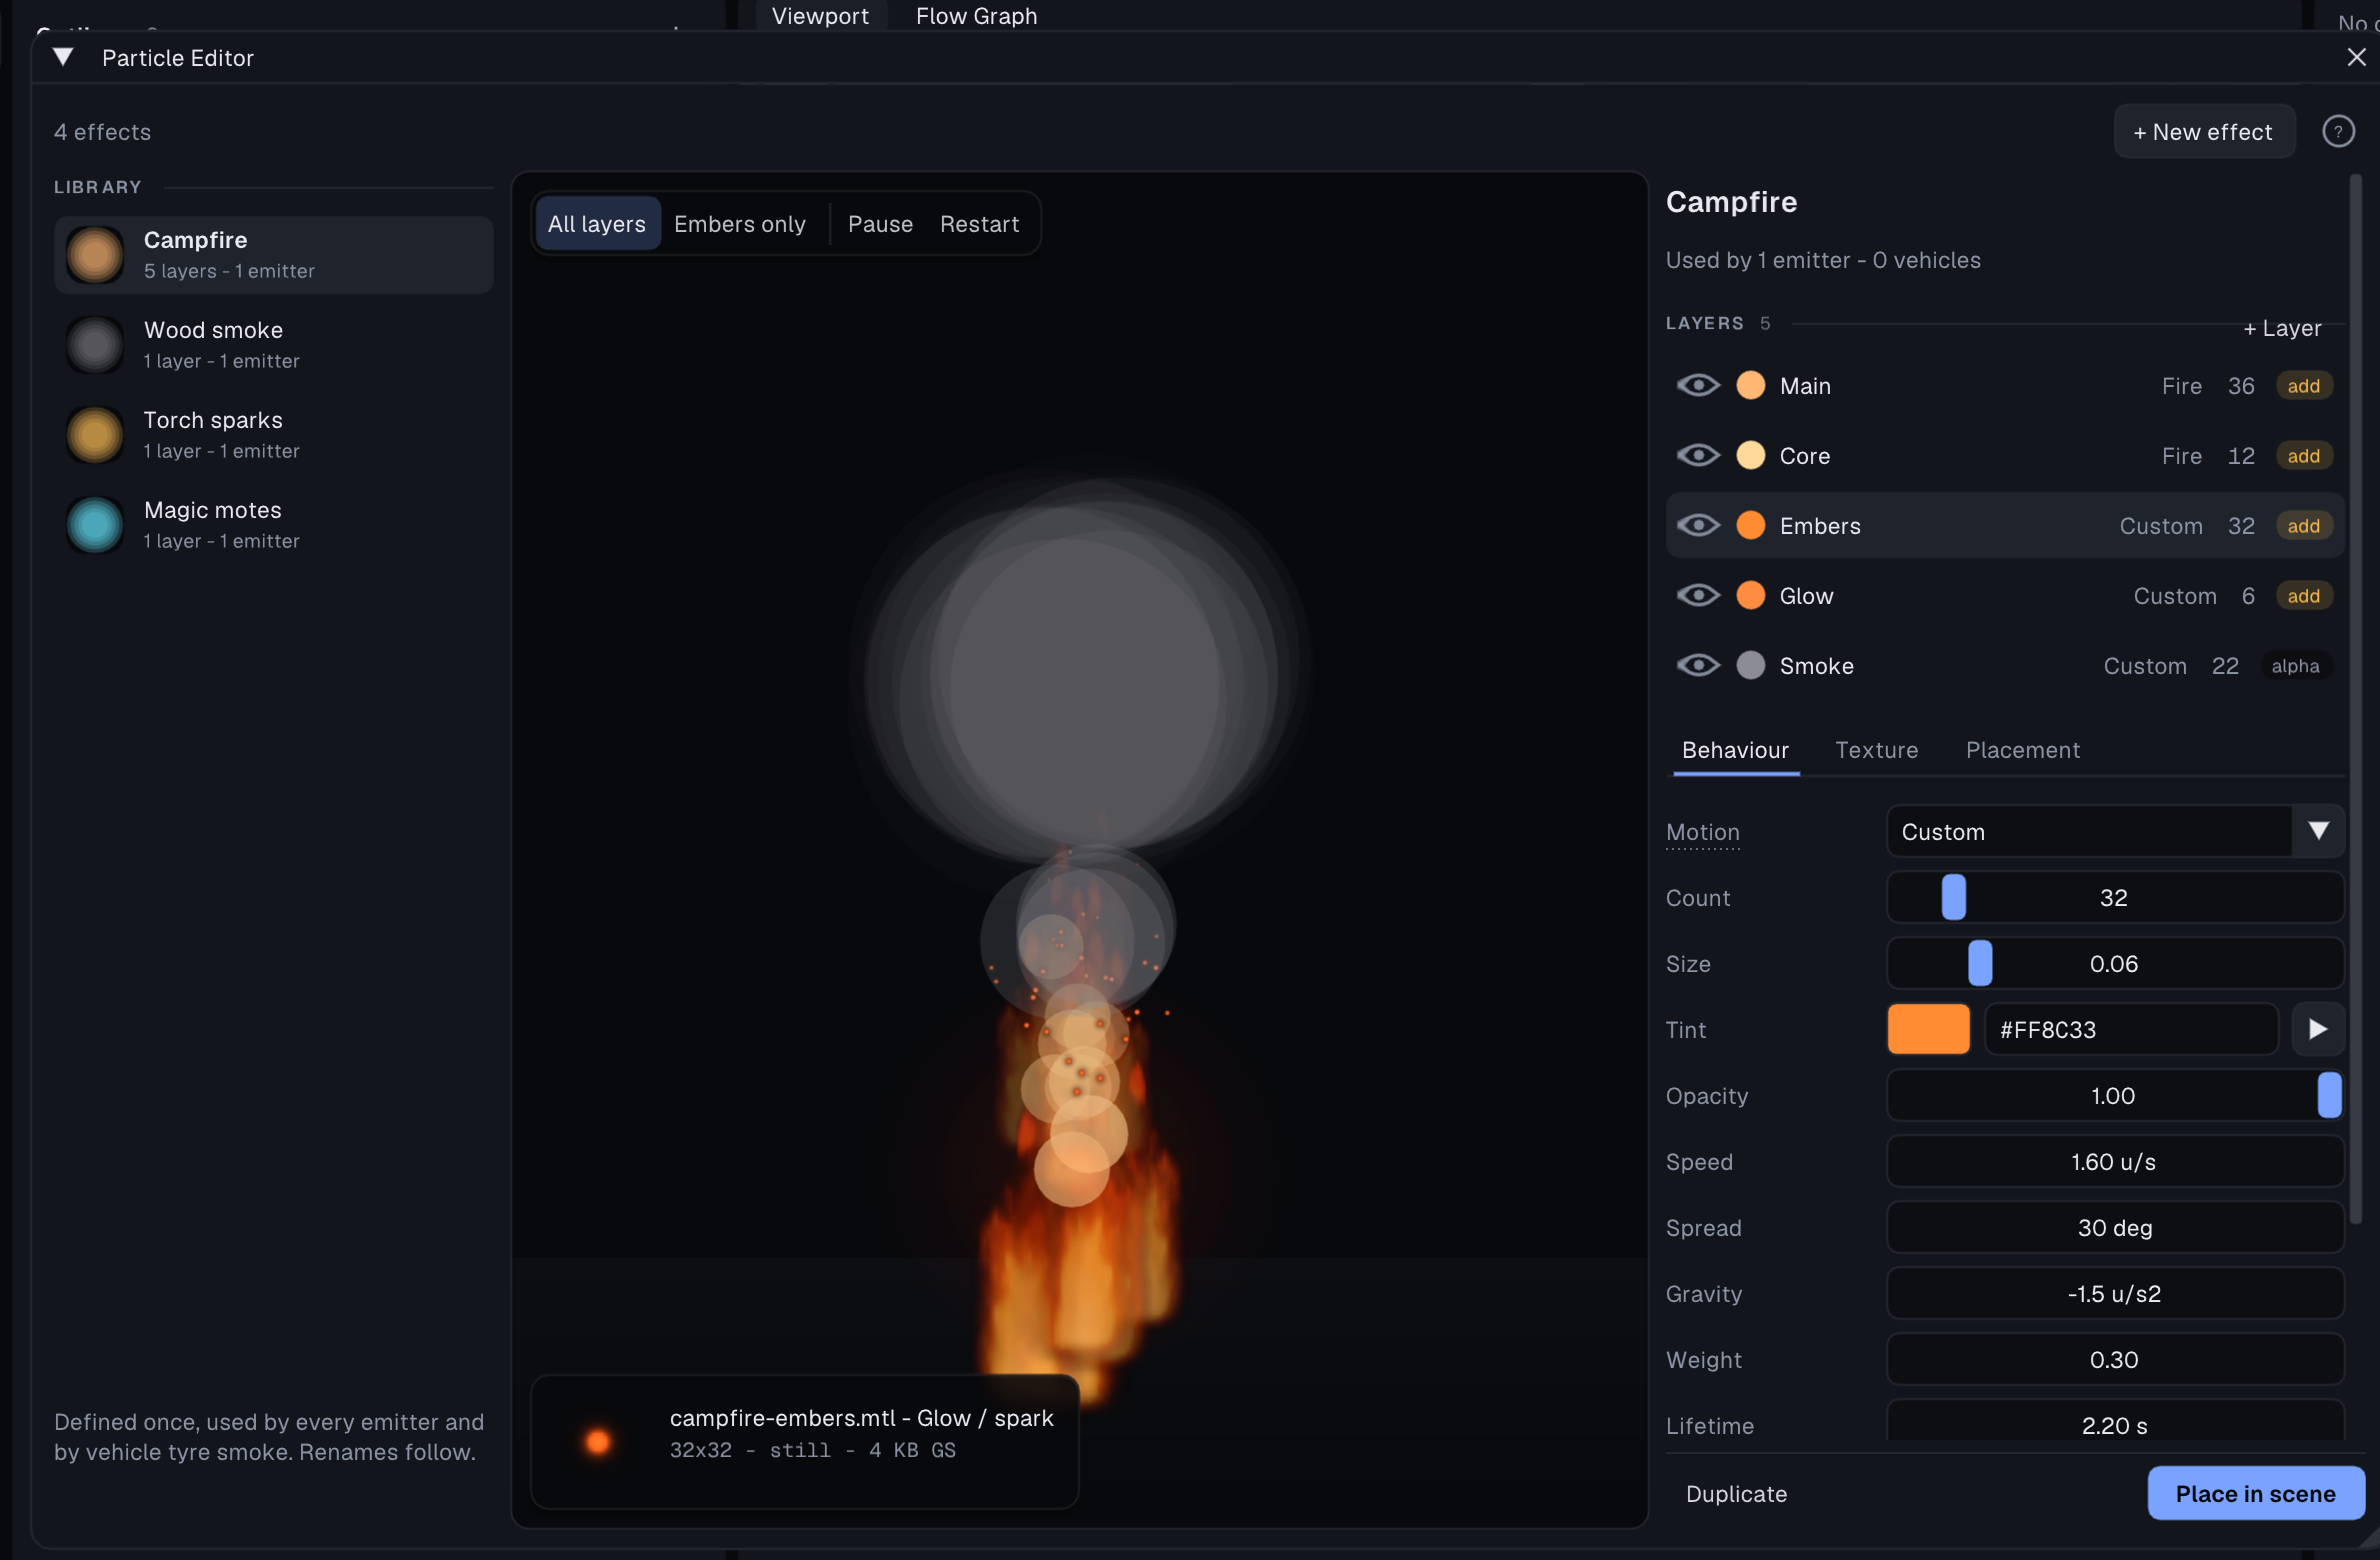
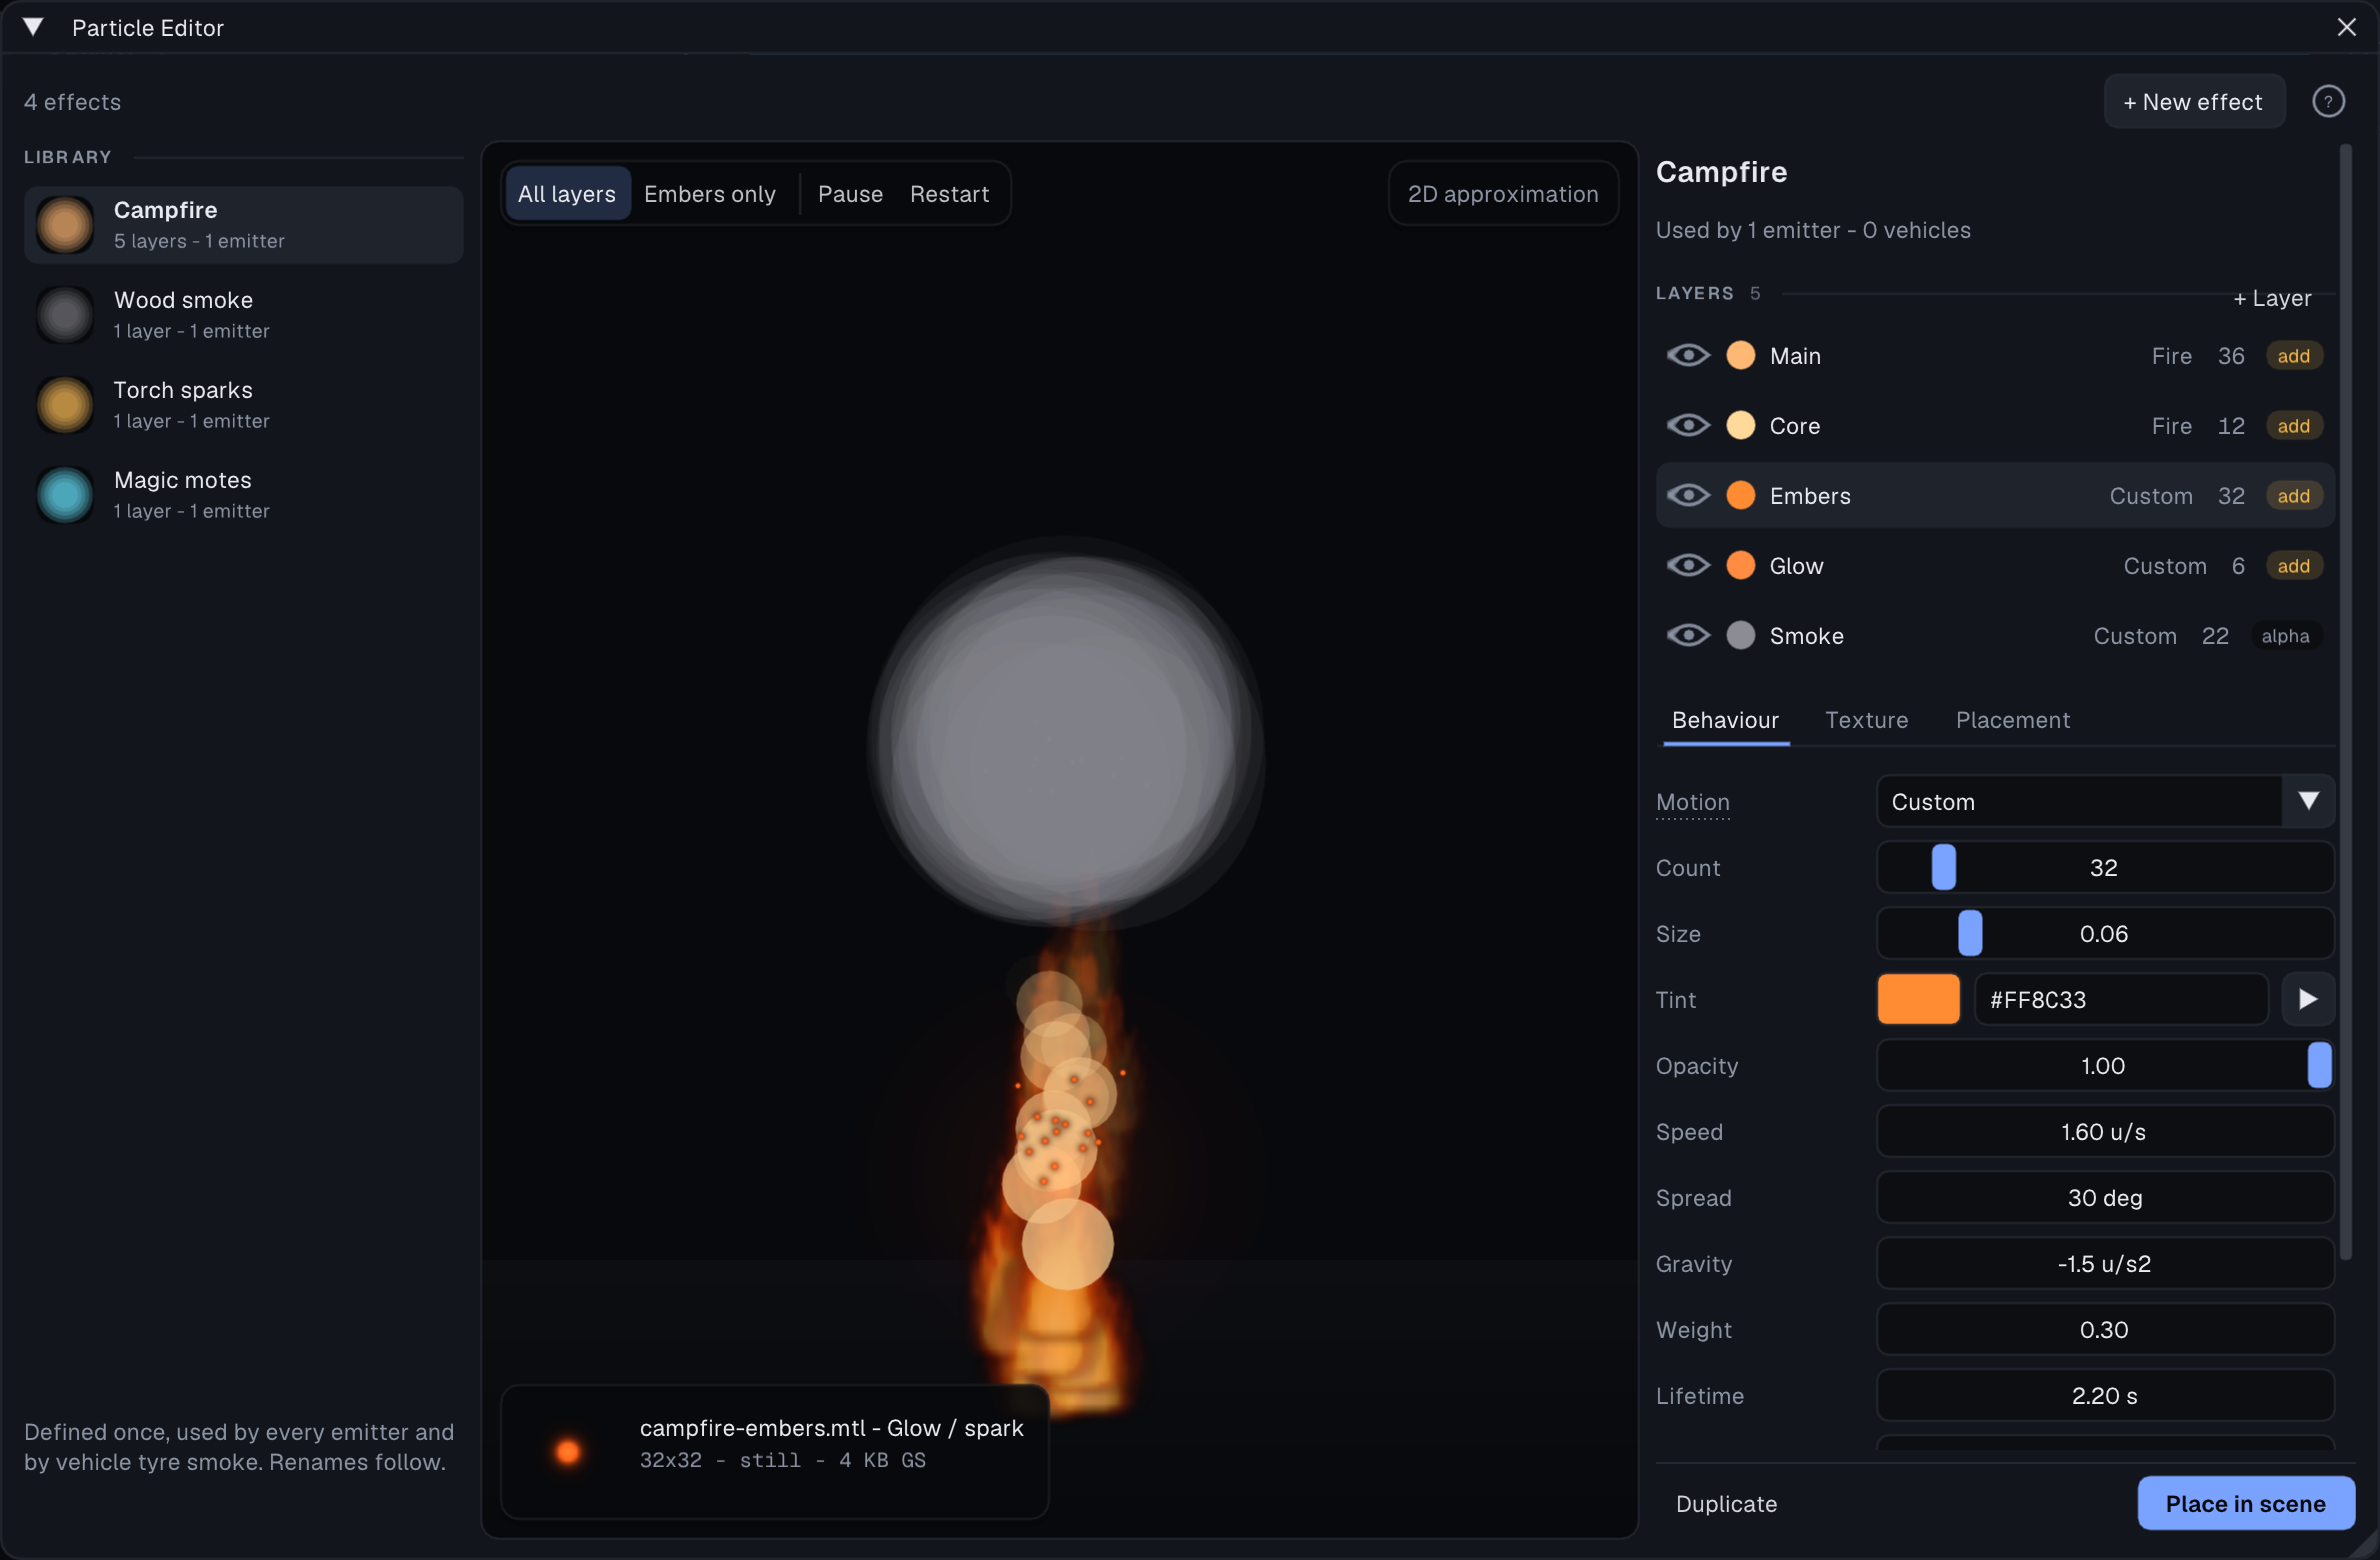
Particle Editor: the '2D approximation' pill no longer disappears at the default size
Divergence (vs ParticleEditor board): the preview's honest pill
('2D approximation - exact motion runs on a placed emitter') was skipped
whenever the whole sentence did not fit beside the toolbar - at the window's
default 1200 px width the preview column is ~590 px, so it never showed.

Fix: fall back to the short form '2D approximation' with the full sentence as
its tooltip; the long form still shows when there is room.

Verified: --ui-script on a copy of particle-lab, Particle Editor at 1200x800
with Campfire selected: the pill is drawn top-right of the preview.

diff --git a/src/particle_ui.cpp b/src/particle_ui.cpp
@@ -428,15 +428,26 @@ void App::drawParticleEditorWindow() {
         }
         // The honest pill.
         {
-            const char* pill = "2D approximation - exact motion runs on a placed emitter";
-            const ImVec2 ts = ImGui::CalcTextSize(pill);
+            // The whole sentence when it fits beside the toolbar, else the
+            // short form with the sentence on hover - never silently gone
+            // (at the default window size the long one never fitted).
+            const char* full = "2D approximation - exact motion runs on a placed emitter";
+            const float room = sz.x - (c1.x - q0.x) - pad * 2.0f;
+            const char* pill = full;
+            ImVec2 ts = ImGui::CalcTextSize(pill);
+            if (ts.x + scaled(20) >= room) {
+                pill = "2D approximation";
+                ts = ImGui::CalcTextSize(pill);
+            }
             const float pw = ts.x + scaled(20);
-            if (pw < sz.x - (c1.x - q0.x) - pad * 2.0f) {
+            if (pw < room) {
                 const ImVec2 p0(q1.x - pad - pw, q0.y + pad);
                 const ImVec2 p1(q1.x - pad, p0.y + oh + ui::OverlayPad() * 2.0f);
                 ui::OverlayPanel(dl, p0, p1);
                 dl->AddText(ImVec2(p0.x + scaled(10), (p0.y + p1.y - ts.y) * 0.5f),
                             ImGui::GetColorU32(sem.textDim), pill);
+                if (pill != full && ImGui::IsMouseHoveringRect(p0, p1) && ImGui::IsWindowHovered())
+                    ImGui::SetTooltip("%s", full);
             }
         }
         // The selected layer's generated texture and its cost.

diff --git a/docs/particles.md b/docs/particles.md
@@ -28,7 +28,9 @@ The window is three columns: the **library**, the **preview** in the middle
   layers / <layer> only** (solo the selected layer), **Pause** and
   **Restart**, and a card with the selected layer's generated texture (its
   flipbook frames) and its cost - resolution, frames @ fps, GS VRAM. It is an
-  approximation on purpose, and says so: the exact per-kind formulas run in
+  approximation on purpose, and says so (a pill in the top-right corner -
+  shortened to *2D approximation*, the full sentence on hover, when the
+  preview is narrow): the exact per-kind formulas run in
   the viewport on a placed emitter, and a third copy of them here would be a
   third thing to keep in sync.
 - **Inspector**: the name, "Used by N emitters - M vehicles", the **layer
